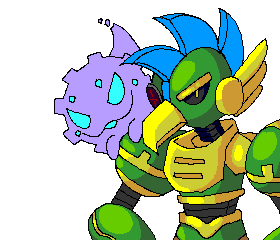
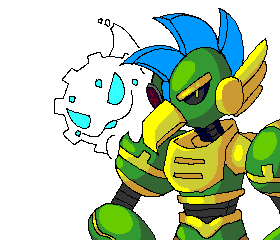
Make a Deadeye without Zip.

Changed region(s): [[0.1714, 0.0875, 0.5714, 0.6708]]

diff --git a/main/modes/games/platformer/mgCutscenes.c b/main/modes/games/platformer/mgCutscenes.c
@@ -37,6 +37,7 @@ typedef enum
     SmashGorillaUncorrupted,
     SeverYatagaUncorrupted,
     DrainBatUncorrupted,
+    DeadeyeWithoutZip,
 } cutsceneCharacters;
 
 static void setSongPitchesFromCurrentSong(mgGameData_t* gameData)
@@ -623,18 +624,18 @@ void bossIntroCutscene(mgGameData_t* gameData)
         }
         default: // Hank Final Battle
         {
-            addCutsceneLine(gameData->cutscene, DeadeyeChirpziUncorrupted, "Hank Waddle?? MY OLD LAWYER?!", true, -1);
+            addCutsceneLine(gameData->cutscene, DeadeyeWithoutZip, "Hank Waddle?? MY OLD LAWYER?!", true, -1);
             addCutsceneLine(gameData->cutscene, HankWaddle, "HAHAHA! So you DO remember me!!", false, 0);
             addCutsceneLine(gameData->cutscene, SawtoothPostReveal, "Okay-what?! Cho, you seriously need to explain what's happening.", false, 3);
             addCutsceneLine(gameData->cutscene, HankWaddle, "BIGMA, I'm disappointed. You were supposed to be my masterpiece! All that rage! That nostalgia!", false, 0);
             addCutsceneLine(gameData->cutscene, HankWaddle, "I practically gift-wrapped your villain arc!!", false, 0);
             addCutsceneLine(gameData->cutscene, Bigma, "You... corrupted me??", true, 2);
             addCutsceneLine(gameData->cutscene, SawtoothPostReveal, "Cho...?", false, 3);
-            addCutsceneLine(gameData->cutscene, DeadeyeChirpziUncorrupted, "I - I don't know, but... is this... is this about...what happened back in 2024?", true, -1);
+            addCutsceneLine(gameData->cutscene, DeadeyeWithoutZip, "I - I don't know, but... is this... is this about...what happened back in 2024?", true, -1);
             addCutsceneLine(gameData->cutscene, Pulse, "What HAPPENED in 2024?", false, 0);
-            addCutsceneLine(gameData->cutscene, DeadeyeChirpziUncorrupted, "I, uh... partied a LITTLE too hard at MAGFest. Woke up in a space station.", false, -1);
-            addCutsceneLine(gameData->cutscene, DeadeyeChirpziUncorrupted, "Gear missing... Reality kind of ... bent sideways. It was a whole thing.", false, -1);
-            addCutsceneLine(gameData->cutscene, DeadeyeChirpziUncorrupted, "And this guy - Hank, my lawyer - was texting me the whole time...", false, -1);
+            addCutsceneLine(gameData->cutscene, DeadeyeWithoutZip, "I, uh... partied a LITTLE too hard at MAGFest. Woke up in a space station.", false, -1);
+            addCutsceneLine(gameData->cutscene, DeadeyeWithoutZip, "Gear missing... Reality kind of ... bent sideways. It was a whole thing.", false, -1);
+            addCutsceneLine(gameData->cutscene, DeadeyeWithoutZip, "And this guy - Hank, my lawyer - was texting me the whole time...", false, -1);
             addCutsceneLine(gameData->cutscene, HankWaddle, "Do you have ANY IDEA how much damage you caused?! The legal fallout?! The paperwork?!", false, 0);
             addCutsceneLine(gameData->cutscene, HankWaddle, "You undermined EVERYTHING I built my career on!", false, 0);
             addCutsceneLine(gameData->cutscene, Pulse, "Wait-so you turned into a villain over PAPERWORK?", false, 0);
@@ -643,7 +644,7 @@ void bossIntroCutscene(mgGameData_t* gameData)
             addCutsceneLine(gameData->cutscene, HankWaddle, "You and your... kind ... are a blight on this world!", false, 0);
             addCutsceneLine(gameData->cutscene, HankWaddle, "And with my corruption program, I've shown the world just how destructive you all really are.", false, 0);
             addCutsceneLine(gameData->cutscene, HankWaddle, "I, HANK WADDLE, will finally be the one to right this wrong. ONCE AND FOR ALL!", false, 0);
-            addCutsceneLine(gameData->cutscene, DeadeyeChirpziUncorrupted, "... We kinda lost touch after that.", false, -1);
+            addCutsceneLine(gameData->cutscene, DeadeyeWithoutZip, "... We kinda lost touch after that.", false, -1);
             addCutsceneLine(gameData->cutscene, Pulse, "We'll stop you just like we stopped BIGMA!", false, 1);
             addCutsceneLine(gameData->cutscene, HankWaddle, "Oh... I was SO hoping you'd say that. Cue FINAL BATTLE MUSIC!", false, -1);
             addCutsceneLine(gameData->cutscene, HankWaddle, "IT. IS. SO. ON!!", false, 0);
@@ -742,20 +743,20 @@ void bossOutroCutscene(mgGameData_t* gameData)
             addCutsceneLine(gameData->cutscene, SystemText, "Zip pulses again, and then dissolves into digital motes that spiral around Cho. They settle into Cho's rig.", false, -1);
             addCutsceneLine(gameData->cutscene, Pulse, "Is he gone?", false, 0);
             //TO DO MAKE DEADEYE ART WITHOUT ZIP, use every where after this.
-            addCutsceneLine(gameData->cutscene, DeadeyeChirpziUncorrupted, "Nah. Just back where he started. Echoes don't disappear-they resonate.", false, -1);
-            addCutsceneLine(gameData->cutscene, DeadeyeChirpziUncorrupted, "And now I've got surround sound.", false, -1);
+            addCutsceneLine(gameData->cutscene, DeadeyeWithoutZip, "Nah. Just back where he started. Echoes don't disappear-they resonate.", false, -1);
+            addCutsceneLine(gameData->cutscene, DeadeyeWithoutZip, "And now I've got surround sound.", false, -1);
             addCutsceneLine(gameData->cutscene, Pulse, "Glad he's still with you", false, 2);
-            addCutsceneLine(gameData->cutscene, DeadeyeChirpziUncorrupted, "Speaking of, Zip's still got some juice left in him and he's itching for one last solo.", false, -1);
+            addCutsceneLine(gameData->cutscene, DeadeyeWithoutZip, "Speaking of, Zip's still got some juice left in him and he's itching for one last solo.", false, -1);
             addCutsceneLine(gameData->cutscene, Pulse, "Wait-are you saying I get an encore?", false, 0);
-            addCutsceneLine(gameData->cutscene, DeadeyeChirpziUncorrupted, "More like a beamline direct to the face. You ever feel the need to absolutely delete something?", false, -1);
+            addCutsceneLine(gameData->cutscene, DeadeyeWithoutZip, "More like a beamline direct to the face. You ever feel the need to absolutely delete something?", false, -1);
             addCutsceneLine(gameData->cutscene, Sawtooth, "Frequently.", false, 2);
-            addCutsceneLine(gameData->cutscene, DeadeyeChirpziUncorrupted, "Then here. Let Zip ride shotgun for a bit.", false, -1);
+            addCutsceneLine(gameData->cutscene, DeadeyeWithoutZip, "Then here. Let Zip ride shotgun for a bit.", false, -1);
             unlockAbility(gameData, MG_SHOOP_DA_WOOP_ABILITY);
             addCutsceneLine(gameData->cutscene, AbilityUnlocked, "........................................................... PULSE receives: Shoop Da Whoop", false, 0);
             addCutsceneLine(gameData->cutscene, AbilityUnlocked, "........................................................... Wait a bit, then fire for a charged shot!", false, 0);
             addCutsceneLine(gameData->cutscene, AbilityUnlocked, "........................................................... The swadge LED lights show when it's ready.", false, 0);
             addCutsceneLine(gameData->cutscene, Pulse, "... Did I just get possessed by a chorus?", false, 0);
-            addCutsceneLine(gameData->cutscene, DeadeyeChirpziUncorrupted, "Nah. Just one very passionate synth creature with volume issues.", false, -1);
+            addCutsceneLine(gameData->cutscene, DeadeyeWithoutZip, "Nah. Just one very passionate synth creature with volume issues.", false, -1);
             addCutsceneLine(gameData->cutscene, Pulse, "I love it already.", false, 1);
             break;
         }
@@ -916,7 +917,7 @@ void bossOutroCutscene(mgGameData_t* gameData)
             addCutsceneLine(gameData->cutscene, HankWaddle, "WHAT?!", false, 1);
             addCutsceneLine(gameData->cutscene, GrindPangolinUncorrupted, "You think we don't know that, ya dingus?", false, -1);
             addCutsceneLine(gameData->cutscene, DrainBatUncorrupted, "We were born... out of love!", true, -1);
-            addCutsceneLine(gameData->cutscene, DeadeyeChirpziUncorrupted, "...For everything that came before us!", true, -1);
+            addCutsceneLine(gameData->cutscene, DeadeyeWithoutZip, "...For everything that came before us!", true, -1);
             addCutsceneLine(gameData->cutscene, SmashGorillaUncorrupted, "And everything that shaped us.", true, -1);
             addCutsceneLine(gameData->cutscene, Ember, "Flaws and all, baby.", true, -1);
             addCutsceneLine(gameData->cutscene, Jasper, "We're not afraid to carry the torch...", true, -1);
@@ -930,8 +931,8 @@ void bossOutroCutscene(mgGameData_t* gameData)
             addCutsceneLine(gameData->cutscene, Pulse, "We're something new.", false, 2);
             addCutsceneLine(gameData->cutscene, Bigma, "Something that couldn't exist without the past...", false, 1);
             addCutsceneLine(gameData->cutscene, Sunny, "...But doesn't need to live in it.", true, 1);
-            addCutsceneLine(gameData->cutscene, DeadeyeChirpziUncorrupted, "So... in other words...", true, -1);
-            addCutsceneLine(gameData->cutscene, DeadeyeChirpziUncorrupted, "HANK, you're fired!!!!!!", true, -1);
+            addCutsceneLine(gameData->cutscene, DeadeyeWithoutZip, "So... in other words...", true, -1);
+            addCutsceneLine(gameData->cutscene, DeadeyeWithoutZip, "HANK, you're fired!!!!!!", true, -1);
             addCutsceneLine(gameData->cutscene, HankWaddle, "No! No no no-if I go down, I'll take you with-AAAAUUUGHHHH!!!!", false, 1);
             addCutsceneLine(gameData->cutscene, SawtoothPostReveal, "EVERYBODY! We have to get out of here!", true, 3);
             addCutsceneLine(gameData->cutscene, BlackScreen, "", false, 0);
@@ -952,6 +953,7 @@ void bossOutroCutscene(mgGameData_t* gameData)
             addCutsceneLine(gameData->cutscene, BlackScreen, "Lead Programmer, Gameplay Designer, Enemy Artist, Boss Designer: Jon Vega", false, 0);
             addCutsceneLine(gameData->cutscene, BlackScreen, "Programmer, Quality Assurance, Gameplay Designer, Enemy Artist, Script Writer, Boss Designer: James Albracht", false, 0);
             addCutsceneLine(gameData->cutscene, BlackScreen, "Reach out to james.albracht@magfest.org with LEGIT game job offers, plz.", false, 0);
+            //I feel that this is in an appropriate theme for anybody who got past the guantlet.
             addCutsceneLine(gameData->cutscene, BlackScreen, "I lost my Mother to Schizophrenia a year ago.", false, 0);
             addCutsceneLine(gameData->cutscene, BlackScreen, "May Virginia Lynn Albracht rest in peace and never be forgotten.", false, 0);
             addCutsceneLine(gameData->cutscene, BlackScreen, "And I am grateful for the creative outlet swadge has served for me in this time.", false, 0);
@@ -964,8 +966,8 @@ void bossOutroCutscene(mgGameData_t* gameData)
             addCutsceneLine(gameData->cutscene, BlackScreen, "Swadgeman (MAG-TV Trailer): JFrye and Producer Scott", false, 0);
             addCutsceneLine(gameData->cutscene, BlackScreen, "Trophy Engineer: Jeremy Stintzcum", false, 0);
             addCutsceneLine(gameData->cutscene, BlackScreen, "\"Ovo Lives!\" Composer: Livingston Rampey", false, 0);
-            addCutsceneLine(gameData->cutscene, BlackScreen, "Special thanks to you: THE STONE who has SPLIT the future of MAGFest in two!", false, 0);
-            addCutsceneLine(gameData->cutscene, BlackScreen, "Notify circuitboards@magfest.org if you want to volunteer for next year!", false, 0);
+            addCutsceneLine(gameData->cutscene, BlackScreen, "Special thanks to you: THE STONE who SPLIT the future of MAGFest in two!", false, 0);
+            addCutsceneLine(gameData->cutscene, BlackScreen, "Notify circuitboards@magfest.org if you want to volunteer on the swadge for next year!", false, 0);
 
             //play Garbotnik's Home 2 (i.e. Ovo lives)
             mg_setBgm(gameData->soundManager, leveldef[14].mainBgmIndex);

diff --git a/main/modes/games/platformer/megaPulseEx.c b/main/modes/games/platformer/megaPulseEx.c
@@ -514,6 +514,11 @@ void platformerEnterMode(void)
         addCutsceneStyle(platformer->gameData.cutscene, c000, DRAIN_BAT_PORTRAIT_0_WSG, TEXTBOX_PULSE_WSG, "Battrice",
                          1, false, true, true);
         setMidiParams(platformer->gameData.cutscene, 33, 82, 2, 250, false);
+        // DeadeyeWithoutZip
+        addCutsceneStyle(platformer->gameData.cutscene, c000, DEADEYE_WITHOUT_ZIP_0_WSG, TEXTBOX_PULSE_WSG, "Cho",
+                         1, false, true, true);
+        // reduce note length, because she just lost Zip.
+        setMidiParams(platformer->gameData.cutscene, 34, 17, 1, 100, false);
     }
 
     setFrameRateUs(16666);
